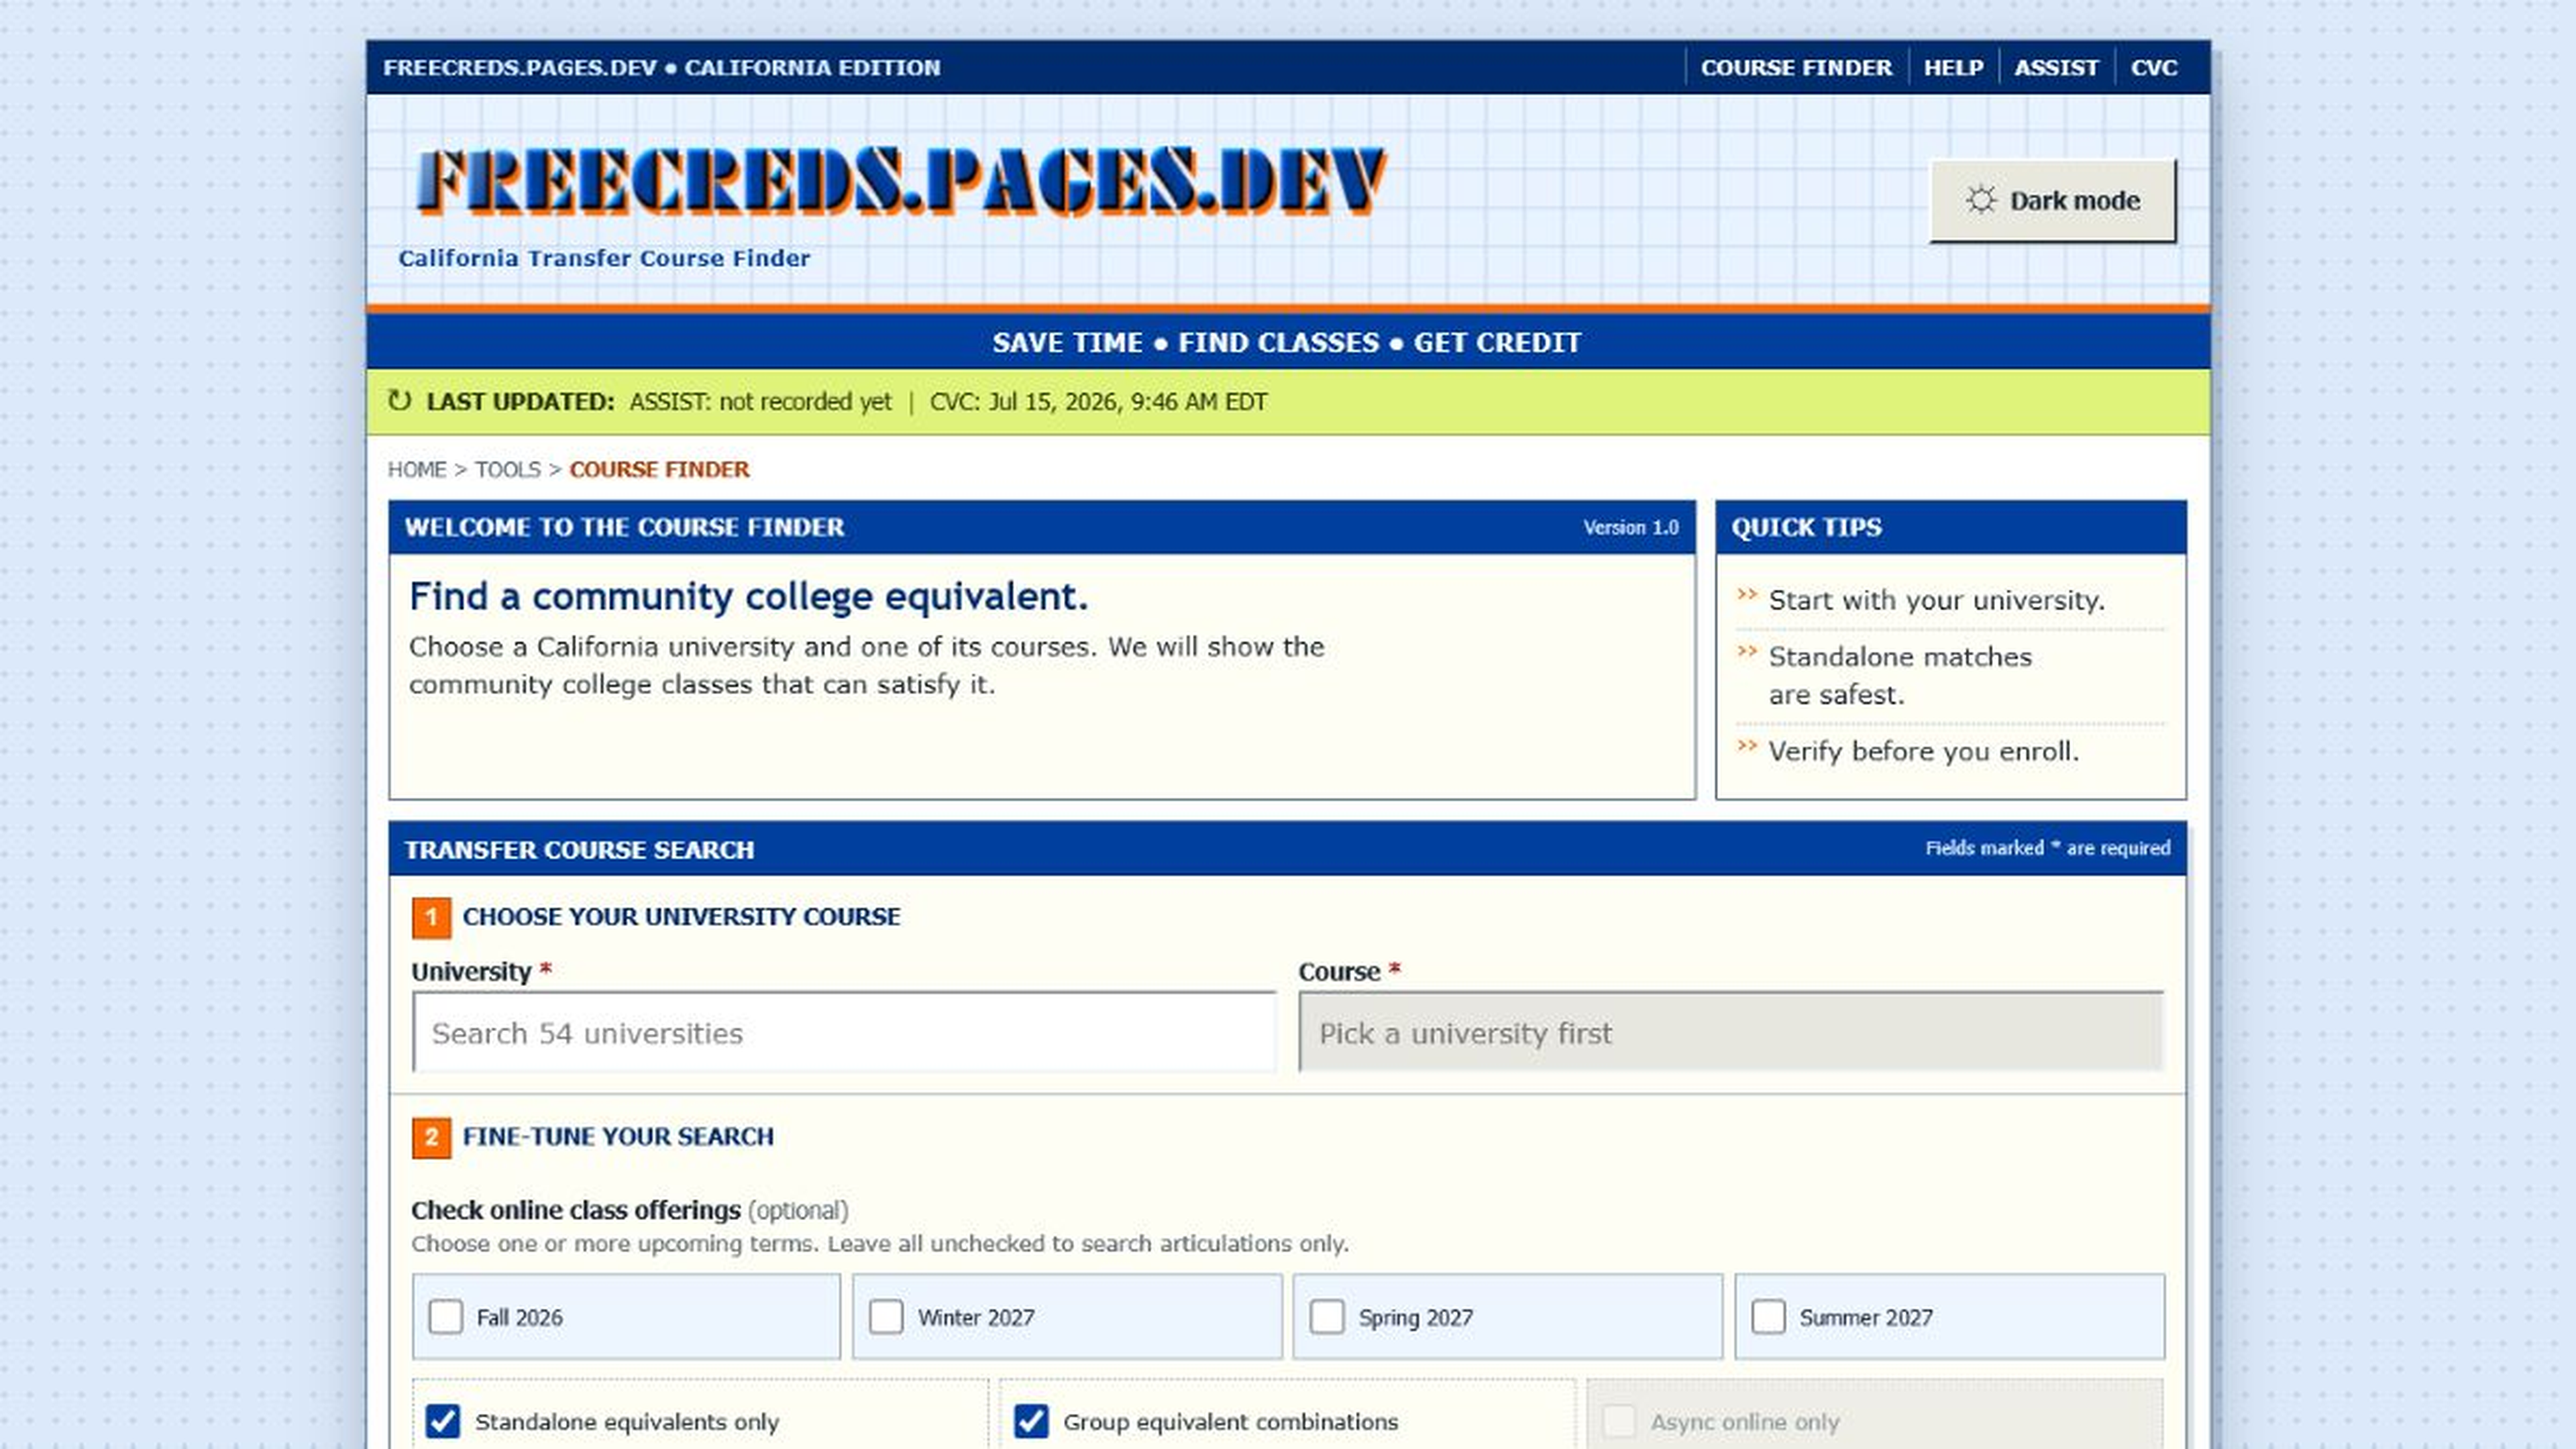
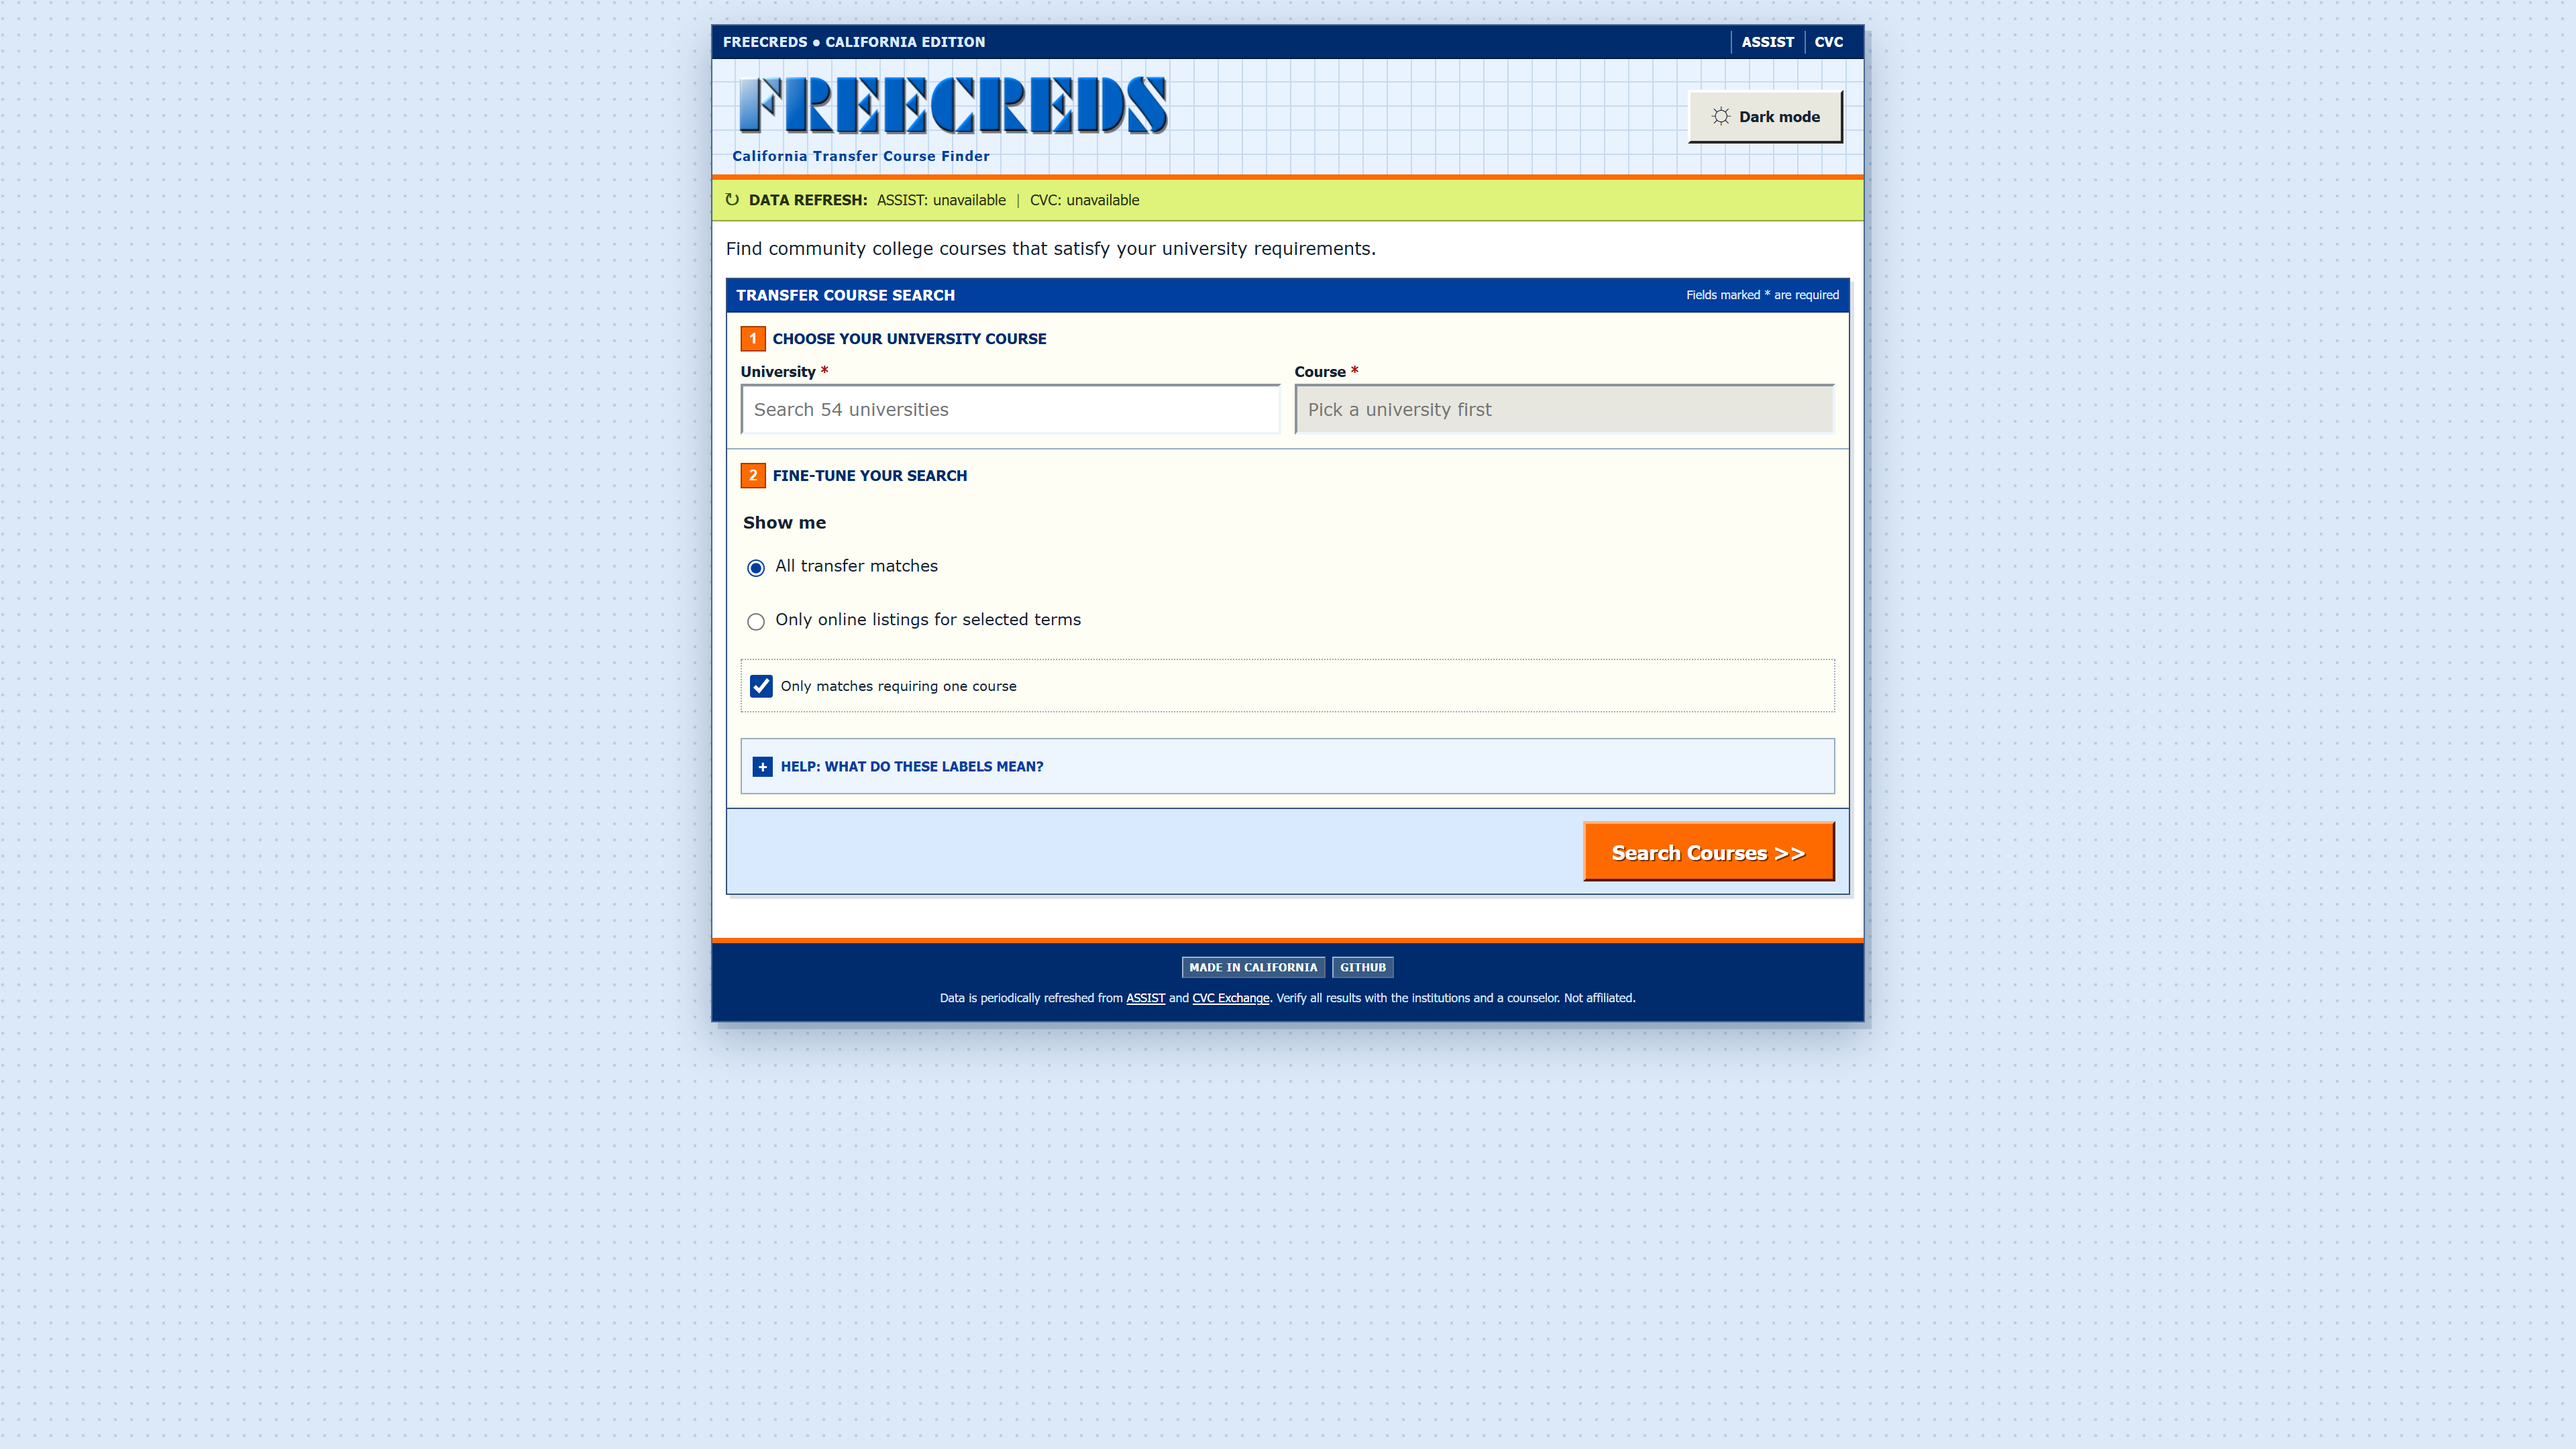
Refresh light social preview image

diff --git a/src/frontend/index.html b/src/frontend/index.html
@@ -12,8 +12,8 @@
   <meta property="og:url" content="https://freecreds.pages.dev/">
   <meta property="og:title" content="FreeCreds: California Transfer Course Finder">
   <meta property="og:description" content="Find California community college courses that satisfy university transfer requirements, with online class listings from CVC.">
-  <meta property="og:image" content="https://freecreds.pages.dev/og-image.png">
-  <meta property="og:image:secure_url" content="https://freecreds.pages.dev/og-image.png">
+  <meta property="og:image" content="https://freecreds.pages.dev/og-image.png?v=6c0895c1d954">
+  <meta property="og:image:secure_url" content="https://freecreds.pages.dev/og-image.png?v=6c0895c1d954">
   <meta property="og:image:type" content="image/png">
   <meta property="og:image:width" content="3840">
   <meta property="og:image:height" content="2160">
@@ -21,7 +21,7 @@
   <meta name="twitter:card" content="summary_large_image">
   <meta name="twitter:title" content="FreeCreds: California Transfer Course Finder">
   <meta name="twitter:description" content="Find California community college courses that satisfy university transfer requirements, with online class listings from CVC.">
-  <meta name="twitter:image" content="https://freecreds.pages.dev/og-image.png">
+  <meta name="twitter:image" content="https://freecreds.pages.dev/og-image.png?v=6c0895c1d954">
   <meta name="twitter:image:alt" content="FreeCreds California Transfer Course Finder website preview">
   <script>
     (function () {
